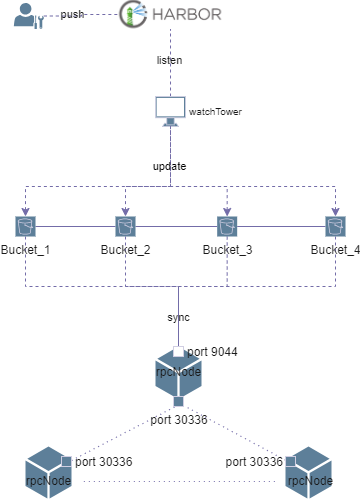
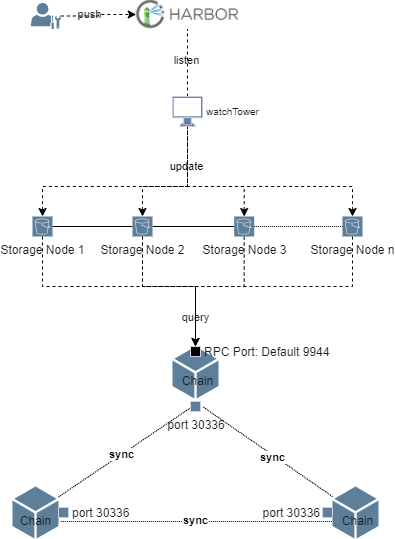
添加关于如何安装multibucket的注释 (#119)
* 添加关于如何安装multibucket的注释

* add multibucket support content, add buckets operation

diff --git a/storage-miner/multi-buckets.md b/storage-miner/multi-buckets.md
@@ -1,10 +1,13 @@
 # Architecture
 
 多存储节点架构如下所示:
+- watchTower: 当本地的 bucket 镜像与官方的 bucket 镜像有差异时，watchtower会自动拉取官方的新镜像，在创建一个新的 bucket 容器后删除旧的 bucket 容器
+- bucket: 存储节点，多个存储节点之间会进行 P2P 通信，在示例配置文件中配置的通信端口为：15001、15002
+- chain: 链节点，存储节点默认通过链节点的 9944 端口获取区块信息；链节点之间默认通过 30336 端口进行数据同步
 
 ![多存储节点架构](../assets/storage-miner/multi-buckets/multibucket.png)
 
-# 一键安装多个存储节点
+# 方法一：一键安装多个存储节点
 
 ## 1. 下载并安装 multibucket 管理客户端
 
@@ -16,8 +19,23 @@ sudo bash ./install.sh
 ```
 
 ## 2. 自定义配置文件
+{% hint style="info" %}
+安装完成后, 用户需要根据实际需求修改文件: `/opt/cess/multibucket-admin/config.yaml`
+{% endhint %}
 
-成功执行 `sudo bash ./install.sh` 后, 默认的配置文件生成在: `/opt/cess/multibucket-admin/config.yaml`
+- UseSpace: 存储节点的存储能力，单位为 GB
+- UseCpu: 存储节点使用的逻辑核心数
+- port: 存储节点 P2P 通信端口，每个存储节点的端口必须不同且没有被其他服务占用
+- diskPath: 存储节点工作的系统绝对路径，需要在该路径下挂载文件系统
+- earningsAcc: 收入账户， [如何获取账户和助记词](https://docs.cess.cloud/core/v/zh/storage-miner/running#zhun-bei-cess-zhang-hu)
+- stakingAcc: 质押 TCESS 的付款账户，每提供 1T 的存储空间需要质押 4000 个 TCESS
+- mnemonic: 账户助记词，由 12 个单词组成，每个存储节点需要提供不同的助记词
+- chainWsUrl: 默认通过本地的 RPC 节点进行存储节点之间的数据同步，`buckets[].chainWsUrl` 的优先级高于 `node.chainWsUrl`
+- backupChainWsUrls: 备用 RPC 节点，可以使用官方提供的 RPC 节点或者你所知的其他 RPC 节点，`buckets[].backupChainWsUrls` 的优先级高于 `node.backupChainWsUrls`
+
+{% hint style="warning" %}
+你可以通过 lvm 的方式在一块硬盘上创建多个虚拟逻辑卷，将多个虚拟逻辑卷挂载在不同的 diskPath 上，但当该硬盘损坏时，所有依赖 lvm 的存储节点都出现故障 !
+{% endhint %}
 
    ```yaml
    ## node configurations template
@@ -29,7 +47,7 @@ sudo bash ./install.sh
       # default chain url for bucket, this config will be overwritten in buckets[] as below
       chainWsUrl: "ws://127.0.0.1:9944/"
       # default backup chain urls for bucket, this config will be overwritten in buckets[] as below
-      backupChainWsUrls: ["wss://testnet-rpc0.cess.cloud/ws/", "wss://testnet-rpc1.cess.cloud/ws/", "wss://testnet-rpc2.cess.cloud/ws/"]
+      backupChainWsUrls: ["wss://testnet-rpc0.cess.cloud/ws/", "wss://testnet-rpc1.cess.cloud/ws/", "wss://testnet-rpc2.cess.cloud/ws/", "wss://testnet-rpc3.cess.cloud/ws/"]
 
    ## chain configurations
    ## set option: '--skip-chain' or '-s' to skip installing chain
@@ -63,7 +81,7 @@ sudo bash ./install.sh
         # a directory mount with filesystem
         diskPath: "/mnt/cess_storage1"
         # The rpc endpoint of the chain
-        # `official chain: wss://testnet-rpc0.cess.cloud/ws/ wss://testnet-rpc1.cess.cloud/ws/ wss://testnet-rpc2.cess.cloud/ws/`
+        # `official chain: wss://testnet-rpc0.cess.cloud/ws/ wss://testnet-rpc1.cess.cloud/ws/ wss://testnet-rpc2.cess.cloud/ws/`, "wss://testnet-rpc3.cess.cloud/ws/"
         chainWsUrl: "ws://127.0.0.1:9944/"
         backupChainWsUrls: []
         # Priority tee list address
@@ -92,7 +110,7 @@ sudo bash ./install.sh
         # a directory mount with filesystem
         diskPath: "/mnt/cess_storage2"
         # The rpc endpoint of the chain
-        # `official chain: wss://testnet-rpc0.cess.cloud/ws/ wss://testnet-rpc1.cess.cloud/ws/ wss://testnet-rpc2.cess.cloud/ws/`
+        # `official chain: wss://testnet-rpc0.cess.cloud/ws/ wss://testnet-rpc1.cess.cloud/ws/ wss://testnet-rpc2.cess.cloud/ws/`, "wss://testnet-rpc3.cess.cloud/ws/"
         chainWsUrl: "ws://127.0.0.1:9944/"
         backupChainWsUrls: []
         # Priority tee list address
@@ -101,36 +119,131 @@ sudo bash ./install.sh
            - "127.0.0.1:8081"
         # Bootstrap Nodes
         Boot: "_dnsaddr.boot-bucket-testnet.cess.cloud"
-
    ```
 
-## 3. 生成配置文件并一键安装多个存储节点
-
-- 每一个存储节点的配置文件会生成在其对应挂载路径的 `bucket` 目录下
-- docker-compose.yaml 生成在路径： `/opt/cess/multibucket-admin/build/docker-compose.yaml`
+## 3. 生成配置文件
+执行以下命令会根据文件：`/opt/cess/multibucket-admin/config.yaml` 去生成每个存储节点的配置文件 `config.yaml` 和 `docker-compose.yaml` 配置文件
 
   ```bash
-  sudo cess-multibucket-admin config generate && sudo cess-multibucket-admin install
+  sudo cess-multibucket-admin config generate
   ```
 
-## 4. 卸载
+- 每一个存储节点的配置文件会生成在其对应挂载路径的 `bucket` 目录下，如存储节点 `bucket_1` 的配置文件生成在： `/mnt/cess_storage1/bucket/config.yaml`
+- docker-compose.yaml 文件生成在路径： `/opt/cess/multibucket-admin/build/docker-compose.yaml`
 
-停止某个服务
+{% hint style="warning" %}
+除非自定义了配置文件的路径，否则以： `/opt/cess/multibucket-admin/config.yaml` 为准
+{% endhint %}
+
+## 4. 一键安装多个存储节点
+
+### 启动所有服务
+启动 watchTower、multi-buckets、rpc 服务
+  ```bash
+  sudo cess-multibucket-admin install
+  ```
+
+### 跳过安装本地 RPC 节点
+如果配置文件中配置了官方的 RPC 节点或其他已知的 RPC 节点，可以通过 `--skip-chain` 跳过启动本地的 RPC 节点
+
+  ```bash
+  sudo cess-multibucket-admin install --skip-chain
+  ```
+
+## 5. 常用操作
+
+**停止某个服务**，如 `sudo cess-multibucket-admin stop bucket_1` 停止存储节点：`bucket_1`
 ```bash
   sudo cess-multibucket-admin stop $1
 ```
 
-停止所有服务
+**停止所有服务**
 ```bash
   sudo cess-multibucket-admin stop
 ```
 
-停止所有服务并删除相关镜像
+**停止所有服务并删除相关镜像**
 ```bash
   sudo cess-multibucket-admin down
 ```
 
-# 依次安装多个存储节点
+**重启所有服务**
+```bash
+  sudo cess-multibucket-admin restart
+```
+
+**重启某个服务**，如 `sudo cess-multibucket-admin reload bucket_1` 重新运行存储节点：`bucket_1`
+```bash
+  sudo cess-multibucket-admin restart $1
+```
+
+**查看版本相关信息**
+```bash
+  sudo cess-multibucket-admin version
+```
+
+**查看服务状态**
+```bash
+  sudo cess-multibucket-admin status
+```
+
+**重新拉取镜像**
+```bash
+  sudo cess-multibucket-admin pullimg
+```
+
+**查看当前磁盘使用情况**
+```bash
+  sudo cess-multibucket-admin tools space-info
+```
+
+**查看存储桶状态**
+```bash
+  sudo cess-multibucket-admin buckets stat
+```
+
+**增加质押**
+```bash
+  sudo cess-multibucket-admin buckets increase staking <deposit amount>
+```
+
+**撤回质押**
+
+当您的节点**退出 CESS 网络**（见下文）后，运行以下命令撤回质押：
+```bash
+  sudo cess-multibucket-admin buckets withdraw
+```
+
+**查询奖励信息**
+```bash
+  udo cess-multibucket-admin buckets reward
+```
+
+**领取奖励**
+```bash
+  sudo cess-multibucket-admin buckets claim
+```
+
+**更新收入账户**
+```bash
+  sudo cess-multibucket-admin buckets update earnings [earnings account]
+```
+
+**退出 CESS 网络**
+```bash
+  sudo cess-multibucket-admin buckets exit
+```
+
+**移除现有的服务**
+
+{% hint style="warning" %}
+除非 CESS 网络已重新部署且确认数据可以清除，否则请勿执行此操作。
+{% endhint %}
+```bash
+  sudo cess-multibucket-admin purge
+```
+
+# 方法二：依次安装多个存储节点
 
 ## 1. 准备 RPC 节点
 
